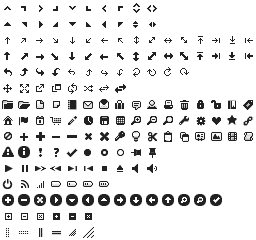
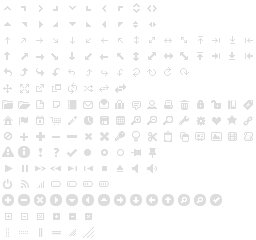
buttons calendar changed colors

diff --git a/PushMe/public/stylesheets/jquery-ui-1.9.2.custom.css b/PushMe/public/stylesheets/jquery-ui-1.9.2.custom.css
@@ -138,8 +138,8 @@
 .ui-icon { width: 16px; height: 16px; background-image: url("/assets/images/calendar/ui-icons_222222_256x240.png"); }
 .ui-widget-content .ui-icon {background-image: url("/assets/images/calendar/ui-icons_222222_256x240.png"); }
 .ui-widget-header .ui-icon {background-image: url("/assets/images/calendar/ui-icons_222222_256x240.png"); }
-.ui-state-default .ui-icon { background-image: url("/assets/images/calendar/ui-icons_888888_256x240.png"); }
-.ui-state-hover .ui-icon, .ui-state-focus .ui-icon {background-image: url("/assets/images/calendar/ui-icons_454545_256x240.png"); }
+.ui-state-default .ui-icon { background-image: url("/assets/images/calendar/ui-icons_222222_256x240.png"); }
+.ui-state-hover .ui-icon, .ui-state-focus .ui-icon {background-image: url("/assets/images/calendar/ui-icons_222222_256x240.png"); }
 .ui-state-active .ui-icon {background-image: url("/assets/images/calendar/ui-icons_454545_256x240.png"); }
 .ui-state-highlight .ui-icon {background-image: url("/assets/images/calendar/ui-icons_2e83ff_256x240.png"); }
 .ui-state-error .ui-icon, .ui-state-error-text .ui-icon {background-image: url("/assets/images/calendar/ui-icons_cd0a0a_256x240.png"); }
